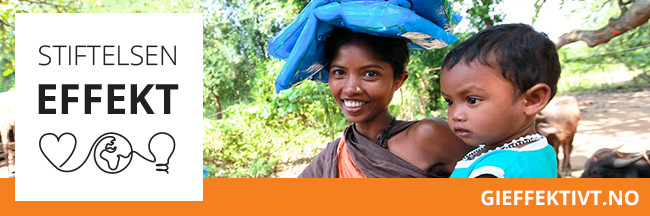
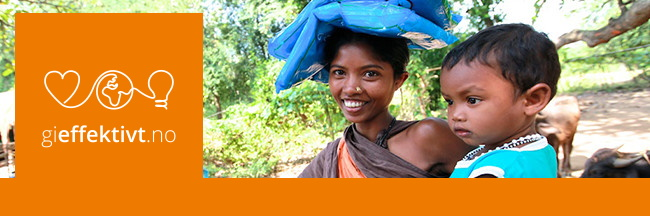
Updates donation reciept branding

diff --git a/views/mail/reciept/index.html b/views/mail/reciept/index.html
@@ -152,7 +152,7 @@
                                             <a href= "mailto:donasjon@gieffektivt.no" style="color: #153643;"><font color="#153643">donasjon@gieffektivt.no</a><br/><br/>
                                             Håper du får en fantastisk dag!<br/><br/>
                                             <b>Vennlig hilsen</b><br/>
-                                            Stiftelsen Effekt og gieffektivt.no
+                                            teamet i gieffektivt.no
                                         </td>
                                     </tr>
                                 </table>
@@ -166,8 +166,8 @@
                                             <table width="194" align="left" border="0" cellpadding="0" cellspacing="0">
                                                 <tr>
                                                     <td style="color: #ffffff; font-family: Arial, sans-serif; font-size: 14px;">
-                                                        STIFTELSEN EFFEKT
-                                                        <a href= "mailto:post@stiftelseneffekt.no" style="color: #ffffff;"><font color="#ffffff">post@stiftelseneffekt.no</a><br/><br/>
+                                                        gieffektivt.no
+                                                        <a href= "mailto:post@gieffektivt.no" style="color: #ffffff;"><font color="#ffffff">post@gieffektivt.no</a><br/><br/>
                                                     </td>
                                                 </tr>
                                             </table>
@@ -180,7 +180,7 @@
                                                 <tr>
                                                     <td>
                                                         <a href="http://www.stiftelseneffekt.no/">
-                                                            <img src="cid:stiftelseneffekt.png" alt="Stiftelsen Effekt" width="75" height="75" style="display: block;" border="0" />
+                                                            <img src="cid:gieffektivt.png" alt="Stiftelsen Effekt" width="75" height="75" style="display: block;" border="0" />
                                                         </a>
                                                     </td>
                                                 </tr>
